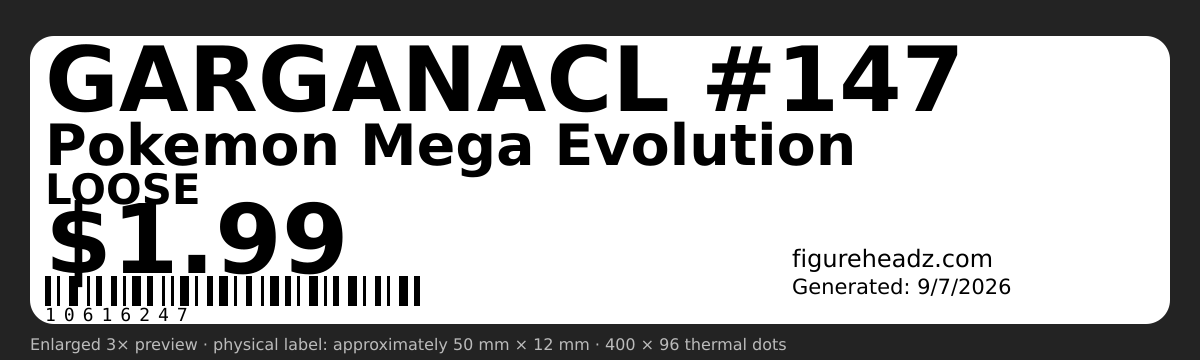
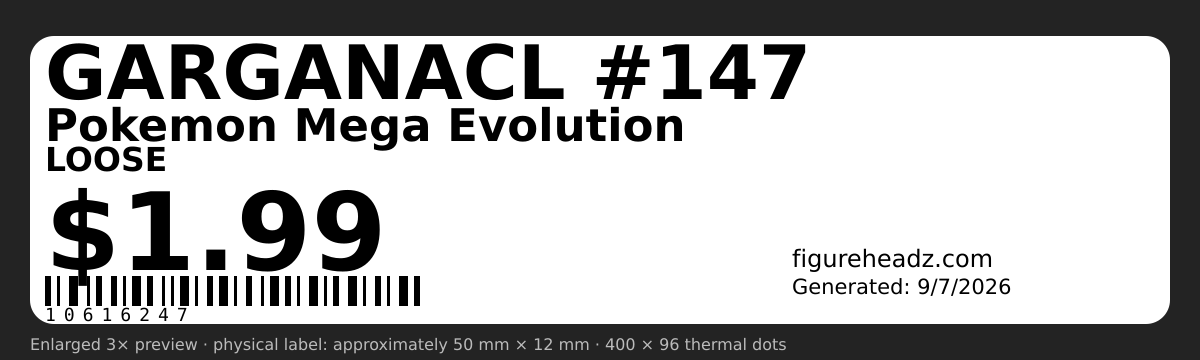
Make price the dominant label element

Changed region(s): [[0.0308, 0.1222, 0.8017, 0.7944]]

diff --git a/artifacts/tcg-label-printer/modules/pricetag-printer/android/src/main/java/expo/modules/pricetagprinter/PriceTagPrinterModule.kt b/artifacts/tcg-label-printer/modules/pricetag-printer/android/src/main/java/expo/modules/pricetagprinter/PriceTagPrinterModule.kt
@@ -465,19 +465,19 @@ class PriceTagPrinterModule : Module() {
     val contentWidth = if (content.showLogo) CONTENT_WIDTH else FULL_CONTENT_WIDTH
     drawFittedText(
       canvas, paint, content.cardName.uppercase(), 5f, 1f,
-      contentWidth, 27, 30f, boldTypeface,
+      contentWidth, 23, 26f, boldTypeface,
     )
     drawFittedText(
-      canvas, paint, content.series, 5f, 28f,
-      contentWidth, 17, 19f, boldTypeface,
+      canvas, paint, content.series, 5f, 24f,
+      contentWidth, 14, 16f, boldTypeface,
     )
     drawFittedText(
-      canvas, paint, content.condition.uppercase(), 5f, 45f,
-      contentWidth, 12, 14f, boldTypeface,
+      canvas, paint, content.condition.uppercase(), 5f, 38f,
+      contentWidth, 10, 12f, boldTypeface,
     )
     drawFittedText(
-      canvas, paint, content.price, 5f, 56f,
-      if (content.showLogo) PRICE_WIDTH else FULL_CONTENT_WIDTH, 24, 34f, boldTypeface,
+      canvas, paint, content.price, 5f, 48f,
+      if (content.showLogo) PRICE_WIDTH else FULL_CONTENT_WIDTH, 32, 42f, boldTypeface,
     )
     paint.isFakeBoldText = false
     if (barcodeWidths.isNotEmpty()) {
